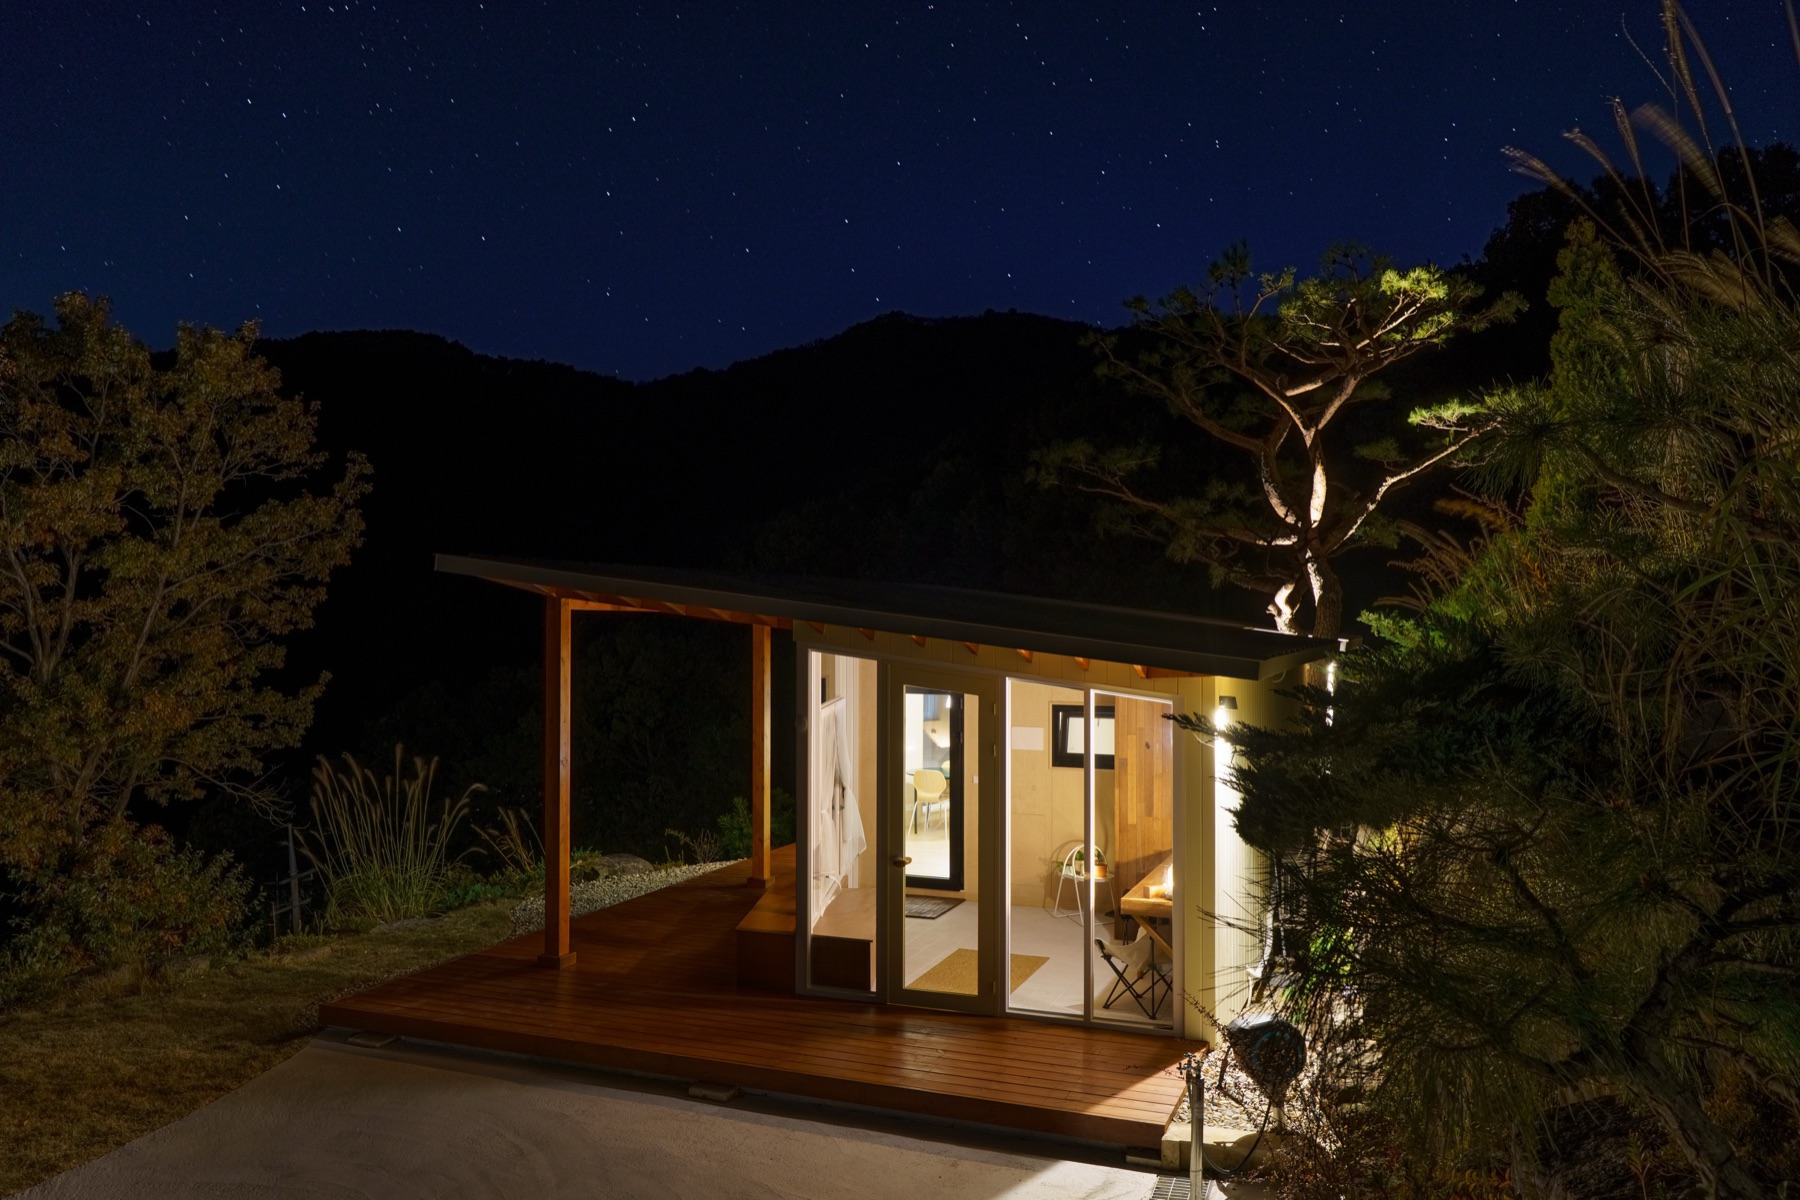
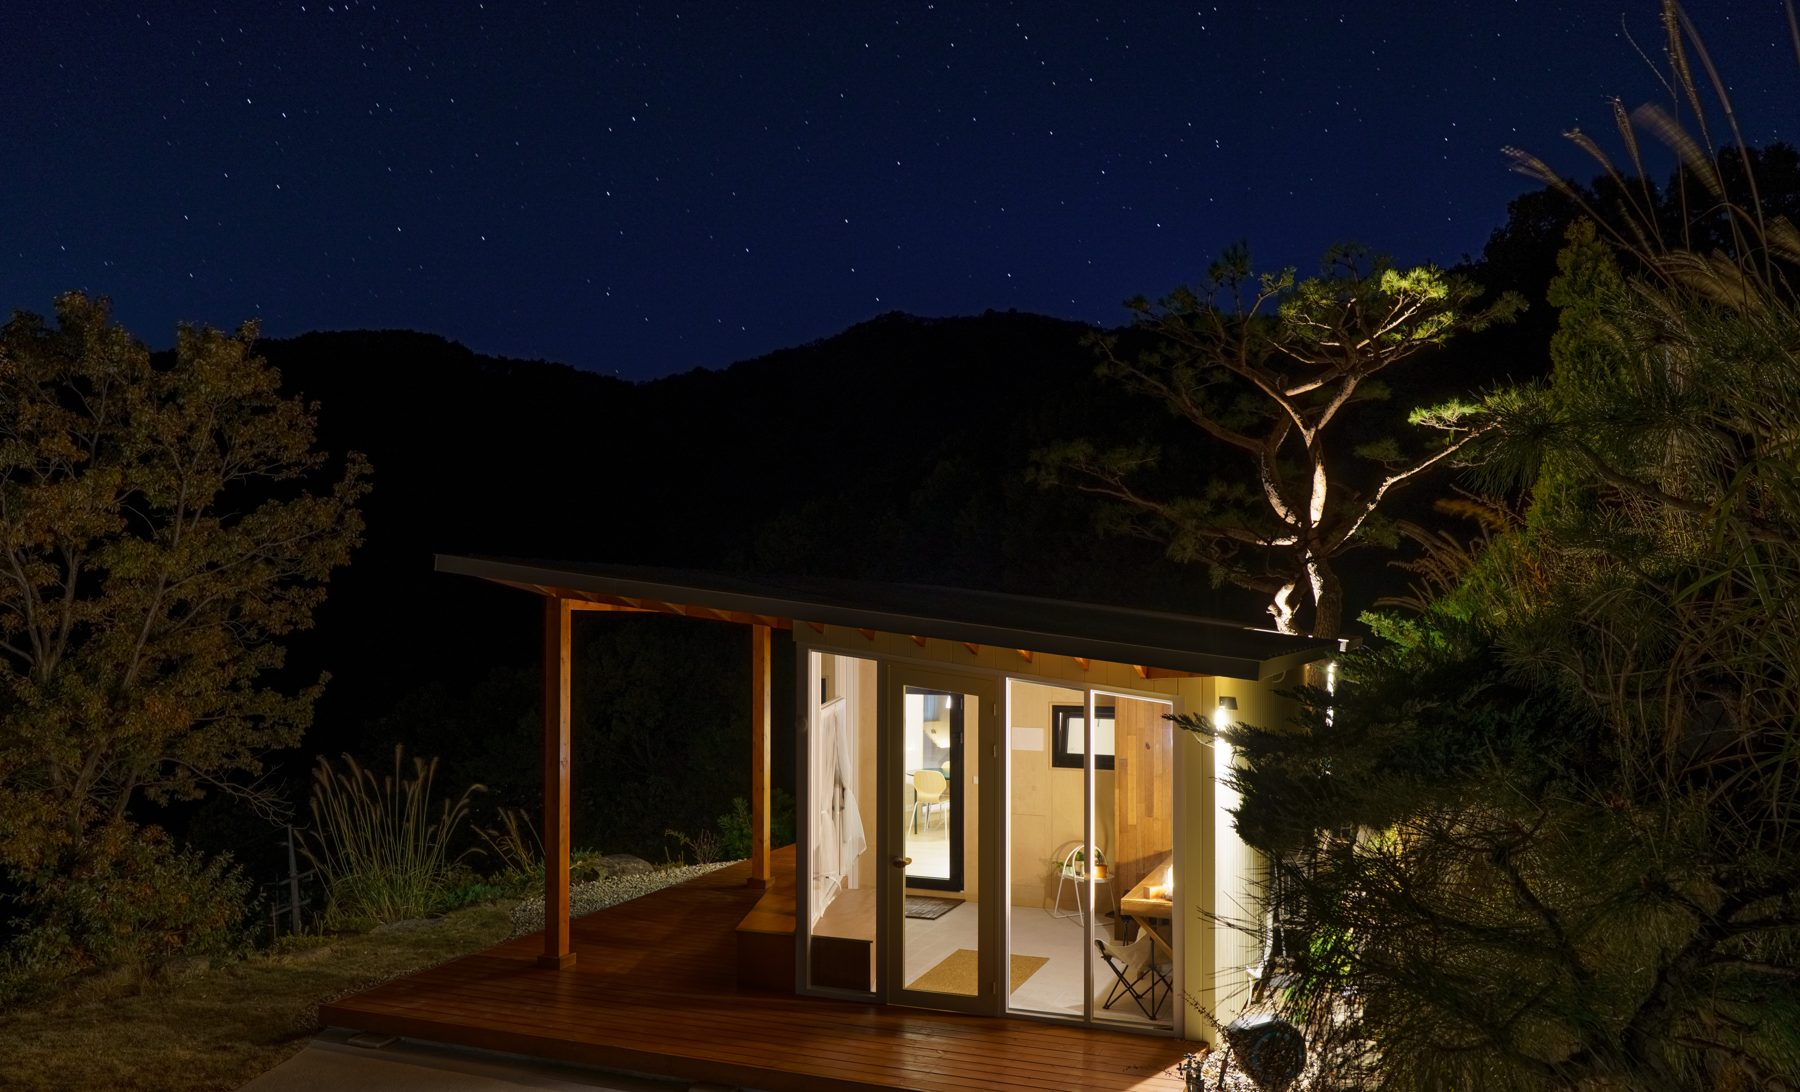
홈 첫 사진: 해 뜨고 지는 시각에 낮밤 전환, 해·달 단추, 아래 9% 잘라 시멘트 줄임

Changed region(s): [[0.0, 0.0623, 1.0, 1.0], [0.5911, 0.3736, 0.6222, 0.4048]]

diff --git a/index.html b/index.html
@@ -18,7 +18,7 @@
 <link rel="preconnect" href="https://fonts.gstatic.com" crossorigin>
 <link rel="stylesheet" href="https://fonts.googleapis.com/css2?family=Noto+Serif+KR:wght@500&amp;display=swap">
 <link rel="stylesheet" href="https://cdn.jsdelivr.net/gh/orioncactus/pretendard@v1.3.9/dist/web/variable/pretendardvariable-dynamic-subset.min.css">
-<link rel="stylesheet" href="style.css?v=4e73bdd6">
+<link rel="stylesheet" href="style.css?v=43b16156">
 <script type="application/ld+json">{"@context": "https://schema.org", "@type": "LodgingBusiness", "name": "스테이솔숲", "alternateName": "stay.solsoop", "url": "https://staysolsoop.kr/", "image": "https://staysolsoop.kr/img/p01.jpg", "description": "산청 지리산뷰 소나무숲 독채, 스테이솔숲. 하루 한 팀만 머뭅니다.", "address": {"@type": "PostalAddress", "streetAddress": "신안면 둔철산로 393-24", "addressLocality": "산청군", "addressRegion": "경상남도", "postalCode": "52262", "addressCountry": "KR"}, "geo": {"@type": "GeoCoordinates", "latitude": 35.3699, "longitude": 127.951}, "telephone": "+82-10-3314-0079", "priceRange": "₩200,000~₩280,000", "currenciesAccepted": "KRW", "checkinTime": "15:30", "checkoutTime": "11:30", "petsAllowed": true, "numberOfRooms": 1, "amenityFeature": [{"@type": "LocationFeatureSpecification", "name": "독채", "value": true}, {"@type": "LocationFeatureSpecification", "name": "셀프 조식", "value": true}, {"@type": "LocationFeatureSpecification", "name": "와이파이", "value": true}, {"@type": "LocationFeatureSpecification", "name": "무료 주차", "value": true}, {"@type": "LocationFeatureSpecification", "name": "에어컨", "value": true}, {"@type": "LocationFeatureSpecification", "name": "전기온돌", "value": true}, {"@type": "LocationFeatureSpecification", "name": "주방", "value": true}, {"@type": "LocationFeatureSpecification", "name": "지리산 전망", "value": true}], "sameAs": ["https://www.instagram.com/stay.solsoop/", "https://blog.naver.com/staysolsoop", "https://map.naver.com/p/entry/place/2012466722", "https://www.facebook.com/stay.solsoop/", "https://www.threads.com/@stay.solsoop"]}</script>
 </head>
 <body>
@@ -40,7 +40,7 @@
   </div>
 </div>
 <main class="flow flow-home">
-<figure class="hero hero-home"><img src="img/p01.jpg" alt="소나무와 단풍 산 능선 앞에 선 스테이솔숲 독채" width="1800" height="1200" fetchpriority="high" style="object-position:54% 45%"><script>(function(){var T=[[455, 1090], [435, 1120], [405, 1145], [365, 1170], [335, 1195], [315, 1215], [325, 1215], [350, 1190], [375, 1155], [400, 1115], [425, 1085], [450, 1075]],im=document.currentScript.previousElementSibling;function night(){var q=/[?&]time=(night|day)/.exec(location.search);if(q)return q[1]==='night';var p={};new Intl.DateTimeFormat('en-GB',{timeZone:'Asia/Seoul',month:'numeric',hour:'2-digit',minute:'2-digit',hourCycle:'h23'}).formatToParts(new Date()).forEach(function(x){p[x.type]=+x.value});var m=p.hour*60+p.minute,s=T[p.month-1];return m<s[0]||m>=s[1];}var d={src:im.getAttribute('src'),alt:im.alt,w:im.getAttribute('width'),h:im.getAttribute('height'),pos:im.style.objectPosition};var n={src:'img/nighthouse.jpg',alt:"별이 뜬 밤, 불 켜진 스테이솔숲 독채",w:1800,h:1200,pos:'54% 40%'};function set(){var v=night()?n:d;if(im.getAttribute('src')===v.src)return;im.src=v.src;im.alt=v.alt;im.setAttribute('width',v.w);im.setAttribute('height',v.h);im.style.objectPosition=v.pos;}set();setInterval(set,600000);})();</script></figure>
+<figure class="hero hero-home"><img src="img/p01.jpg" alt="소나무와 단풍 산 능선 앞에 선 스테이솔숲 독채" width="1800" height="1092" fetchpriority="high" style="object-position:54% 100%"><script>(function(){function sun(y,mo,dd){var r=Math.PI/180,lat=35.37,lon=127.93,n=(Date.UTC(y,mo-1,dd)-Date.UTC(y,0,0))/864e5,g=2*Math.PI/365*(n-1),eq=229.18*(7.5e-5+.001868*Math.cos(g)-.032077*Math.sin(g)-.014615*Math.cos(2*g)-.040849*Math.sin(2*g)),de=.006918-.399912*Math.cos(g)+.070257*Math.sin(g)-.006758*Math.cos(2*g)+9.07e-4*Math.sin(2*g)-.002697*Math.cos(3*g)+.00148*Math.sin(3*g),ha=Math.acos(Math.cos(90.833*r)/(Math.cos(lat*r)*Math.cos(de))-Math.tan(lat*r)*Math.tan(de))/r,no=1260-4*lon-eq;return[no-4*ha,no+4*ha];}var im=document.currentScript.previousElementSibling,fig=im.parentNode,man=null;function night(){if(man!==null)return man;var q=/[?&]time=(night|day)/.exec(location.search);if(q)return q[1]==='night';var p={};new Intl.DateTimeFormat('en-GB',{timeZone:'Asia/Seoul',year:'numeric',month:'numeric',day:'numeric',hour:'2-digit',minute:'2-digit',hourCycle:'h23'}).formatToParts(new Date()).forEach(function(x){p[x.type]=+x.value});var m=p.hour*60+p.minute,s=sun(p.year,p.month,p.day);return m<s[0]||m>=s[1];}var d={src:im.getAttribute('src'),alt:im.alt,w:im.getAttribute('width'),h:im.getAttribute('height'),pos:im.style.objectPosition};var n={src:'img/nighthouse.jpg',alt:"별이 뜬 밤, 불 켜진 스테이솔숲 독채",w:1800,h:1092,pos:'54% 100%'};var b=document.createElement('button');b.type='button';b.className='hero-toggle';var I={sun:"<svg viewBox=\"0 0 24 24\" aria-hidden=\"true\"><circle cx=\"12\" cy=\"12\" r=\"4.2\"/><path d=\"M12 2.5v2.2M12 19.3v2.2M2.5 12h2.2M19.3 12h2.2M5.3 5.3l1.6 1.6M17.1 17.1l1.6 1.6M5.3 18.7l1.6-1.6M17.1 6.9l1.6-1.6\"/></svg>",moon:"<svg viewBox=\"0 0 24 24\" aria-hidden=\"true\"><path d=\"M19.5 14.6A8 8 0 0 1 9.4 4.5a8 8 0 1 0 10.1 10.1z\"/></svg>"};function set(){var nt=night(),v=nt?n:d;if(im.getAttribute('src')!==v.src){im.src=v.src;im.alt=v.alt;im.setAttribute('width',v.w);im.setAttribute('height',v.h);im.style.objectPosition=v.pos;}b.innerHTML=nt?I.sun:I.moon;var t=nt?'낮 사진 보기':'밤 사진 보기';b.setAttribute('aria-label',t);b.title=t;}b.onclick=function(){man=!night();set();};fig.appendChild(b);set();setInterval(set,600000);})();</script></figure>
 <section class="col intro">
   <h1>산청 지리산뷰<br>소나무숲 독채</h1>
   <div class="poem"><p>경남 산청 둔철산 자락,<br>소나무를 비켜 지은<br>독채 민박 한 동.</p><p>큰 창 앞에 앉으면<br>지리산 능선이 겹겹이 보입니다.</p><p>하루 한 팀만 머뭅니다.</p></div>

diff --git a/style.css b/style.css
@@ -77,6 +77,10 @@ a:focus-visible, button:focus-visible, input:focus-visible { outline: 2px solid 
 .hero { width: 100%; max-width: 1440px; height: 72vh; height: 72svh; min-height: 420px; max-height: 860px; background: var(--line); }
 .hero-home { height: calc(100vh - 61px); height: calc(100svh - 61px); min-height: 520px; max-height: 960px; }
 .hero img { width: 100%; height: 100%; object-fit: cover; display: block; }
+.hero { position: relative; }
+.hero-toggle { position: absolute; right: 16px; bottom: 16px; width: 44px; height: 44px; padding: 0; border-radius: 50%; border: 1px solid rgba(255,255,255,.55); background: rgba(0,0,0,.16); -webkit-backdrop-filter: blur(6px); backdrop-filter: blur(6px); color: #fff; display: flex; align-items: center; justify-content: center; cursor: pointer; opacity: .8; transition: opacity .2s; }
+.hero-toggle:hover, .hero-toggle:focus-visible { opacity: 1; }
+.hero-toggle svg { width: 22px; height: 22px; fill: none; stroke: currentColor; stroke-width: 1.6; stroke-linecap: round; stroke-linejoin: round; }
 
 /* 사진 L · M · S */
 .ph { width: 100%; display: flex; flex-direction: column; align-items: center; gap: 10px; }

diff --git a/around.html b/around.html
@@ -18,7 +18,7 @@
 <link rel="preconnect" href="https://fonts.gstatic.com" crossorigin>
 <link rel="stylesheet" href="https://fonts.googleapis.com/css2?family=Noto+Serif+KR:wght@500&amp;display=swap">
 <link rel="stylesheet" href="https://cdn.jsdelivr.net/gh/orioncactus/pretendard@v1.3.9/dist/web/variable/pretendardvariable-dynamic-subset.min.css">
-<link rel="stylesheet" href="style.css?v=4e73bdd6">
+<link rel="stylesheet" href="style.css?v=43b16156">
 
 </head>
 <body>

diff --git a/guide.html b/guide.html
@@ -18,7 +18,7 @@
 <link rel="preconnect" href="https://fonts.gstatic.com" crossorigin>
 <link rel="stylesheet" href="https://fonts.googleapis.com/css2?family=Noto+Serif+KR:wght@500&amp;display=swap">
 <link rel="stylesheet" href="https://cdn.jsdelivr.net/gh/orioncactus/pretendard@v1.3.9/dist/web/variable/pretendardvariable-dynamic-subset.min.css">
-<link rel="stylesheet" href="style.css?v=4e73bdd6">
+<link rel="stylesheet" href="style.css?v=43b16156">
 
 </head>
 <body>

diff --git a/location.html b/location.html
@@ -18,7 +18,7 @@
 <link rel="preconnect" href="https://fonts.gstatic.com" crossorigin>
 <link rel="stylesheet" href="https://fonts.googleapis.com/css2?family=Noto+Serif+KR:wght@500&amp;display=swap">
 <link rel="stylesheet" href="https://cdn.jsdelivr.net/gh/orioncactus/pretendard@v1.3.9/dist/web/variable/pretendardvariable-dynamic-subset.min.css">
-<link rel="stylesheet" href="style.css?v=4e73bdd6">
+<link rel="stylesheet" href="style.css?v=43b16156">
 
 </head>
 <body>

diff --git a/stay.html b/stay.html
@@ -18,7 +18,7 @@
 <link rel="preconnect" href="https://fonts.gstatic.com" crossorigin>
 <link rel="stylesheet" href="https://fonts.googleapis.com/css2?family=Noto+Serif+KR:wght@500&amp;display=swap">
 <link rel="stylesheet" href="https://cdn.jsdelivr.net/gh/orioncactus/pretendard@v1.3.9/dist/web/variable/pretendardvariable-dynamic-subset.min.css">
-<link rel="stylesheet" href="style.css?v=4e73bdd6">
+<link rel="stylesheet" href="style.css?v=43b16156">
 
 </head>
 <body>

diff --git a/story.html b/story.html
@@ -18,7 +18,7 @@
 <link rel="preconnect" href="https://fonts.gstatic.com" crossorigin>
 <link rel="stylesheet" href="https://fonts.googleapis.com/css2?family=Noto+Serif+KR:wght@500&amp;display=swap">
 <link rel="stylesheet" href="https://cdn.jsdelivr.net/gh/orioncactus/pretendard@v1.3.9/dist/web/variable/pretendardvariable-dynamic-subset.min.css">
-<link rel="stylesheet" href="style.css?v=4e73bdd6">
+<link rel="stylesheet" href="style.css?v=43b16156">
 
 </head>
 <body>
